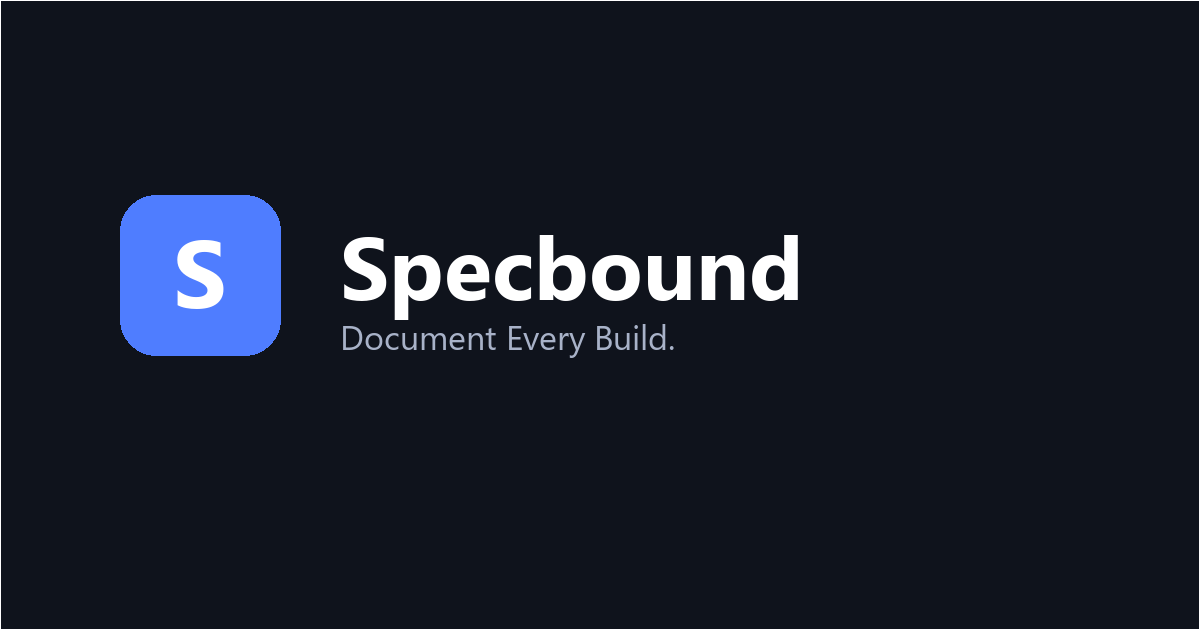
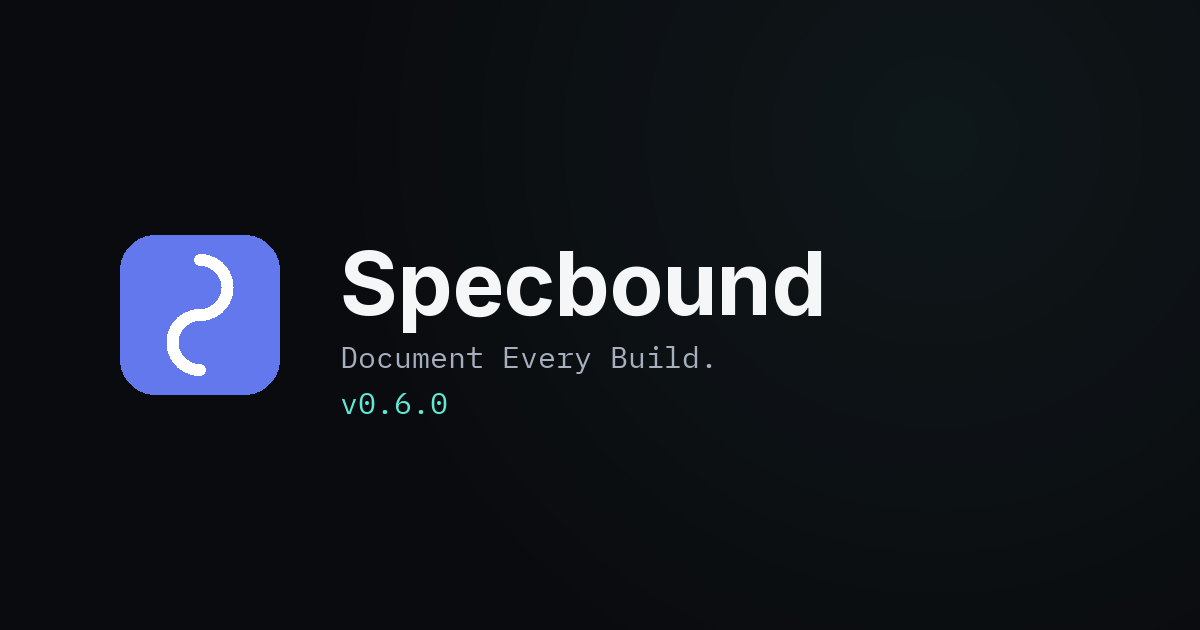
Milestone 10 Step 9: brand assets
Redraws the Assembly Mark and regenerates every asset derived from it,
per docs/MILESTONE_10_BRAND_REFRESH_ARCHITECTURE.md's Brand assets
section.

Assembly Mark (assets/brand/logo/favicon.svg): kept the rounded-square
badge format, replaced the hand-fitted bezier "S" with a precisely
geometric one - two tangent circular arcs (r=5.5, centers exactly 2r
apart so they join with matching slope, no seam) instead of freeform
curve-fitting, matching the doc's "assembled/drafted, not hand-drawn
calligraphic" direction. Fill moves to --color-primary - using the
actually-shipped #6478ee from Step 1, not the architecture doc's
stale #4A5FE8 draft value (same superseded-by-the-real-token situation
documented in Step 1's own commit). Verified legible at both 32px and
16px.

PNG derivatives (favicon-32.png, favicon-192.png, apple-touch-icon.png)
regenerated from the same geometry via a small Pillow script (no
cairosvg/native-cairo available in this environment, so the mark is
rasterized directly from its centerline math rather than the SVG
file - same shape, verified pixel-consistent with the vector source's
control points).

Open Graph image (assets/brand/og/og-image.png, 1200x630, regenerated
via Pillow per the existing Phase 9D method): new mark, new palette
(--color-bg background, --color-text/--color-text-muted for
wordmark/tagline), Inter Bold wordmark, IBM Plex Mono for the
tagline/version line per the doc's "mono typeface for the
[…]

diff --git a/pages/legal/affiliate-disclosure.html b/pages/legal/affiliate-disclosure.html
@@ -10,7 +10,7 @@
     <link rel="icon" type="image/png" sizes="32x32" href="../../assets/brand/logo/favicon-32.png">
     <link rel="apple-touch-icon" href="../../assets/brand/logo/apple-touch-icon.png">
     <link rel="manifest" href="../../manifest.webmanifest">
-    <meta name="theme-color" content="#4f7dff">
+    <meta name="theme-color" content="#6478ee">
     <meta name="viewport" content="width=device-width, initial-scale=1.0">
     <title>Affiliate Disclosure — Coming Soon | Specbound</title>
     <link rel="canonical" href="https://specbound.app/pages/legal/affiliate-disclosure.html">

diff --git a/pages/legal/community-guidelines.html b/pages/legal/community-guidelines.html
@@ -10,7 +10,7 @@
     <link rel="icon" type="image/png" sizes="32x32" href="../../assets/brand/logo/favicon-32.png">
     <link rel="apple-touch-icon" href="../../assets/brand/logo/apple-touch-icon.png">
     <link rel="manifest" href="../../manifest.webmanifest">
-    <meta name="theme-color" content="#4f7dff">
+    <meta name="theme-color" content="#6478ee">
     <meta name="viewport" content="width=device-width, initial-scale=1.0">
     <title>Community Guidelines — Coming Soon | Specbound</title>
     <link rel="canonical" href="https://specbound.app/pages/legal/community-guidelines.html">

diff --git a/pages/legal/privacy.html b/pages/legal/privacy.html
@@ -10,7 +10,7 @@
     <link rel="icon" type="image/png" sizes="32x32" href="../../assets/brand/logo/favicon-32.png">
     <link rel="apple-touch-icon" href="../../assets/brand/logo/apple-touch-icon.png">
     <link rel="manifest" href="../../manifest.webmanifest">
-    <meta name="theme-color" content="#4f7dff">
+    <meta name="theme-color" content="#6478ee">
     <meta name="viewport" content="width=device-width, initial-scale=1.0">
     <title>Privacy Policy — Coming Soon | Specbound</title>
     <link rel="canonical" href="https://specbound.app/pages/legal/privacy.html">

diff --git a/pages/legal/terms.html b/pages/legal/terms.html
@@ -10,7 +10,7 @@
     <link rel="icon" type="image/png" sizes="32x32" href="../../assets/brand/logo/favicon-32.png">
     <link rel="apple-touch-icon" href="../../assets/brand/logo/apple-touch-icon.png">
     <link rel="manifest" href="../../manifest.webmanifest">
-    <meta name="theme-color" content="#4f7dff">
+    <meta name="theme-color" content="#6478ee">
     <meta name="viewport" content="width=device-width, initial-scale=1.0">
     <title>Terms of Service — Coming Soon | Specbound</title>
     <link rel="canonical" href="https://specbound.app/pages/legal/terms.html">

diff --git a/pages/categories/3d-printing.html b/pages/categories/3d-printing.html
@@ -10,7 +10,7 @@
     <link rel="icon" type="image/png" sizes="32x32" href="../../assets/brand/logo/favicon-32.png">
     <link rel="apple-touch-icon" href="../../assets/brand/logo/apple-touch-icon.png">
     <link rel="manifest" href="../../manifest.webmanifest">
-    <meta name="theme-color" content="#4f7dff">
+    <meta name="theme-color" content="#6478ee">
     <meta name="viewport" content="width=device-width, initial-scale=1.0">
     <title>3D Printing | Specbound</title>
     <link rel="canonical" href="https://specbound.app/pages/categories/3d-printing.html">

diff --git a/pages/categories/desk-setups.html b/pages/categories/desk-setups.html
@@ -10,7 +10,7 @@
     <link rel="icon" type="image/png" sizes="32x32" href="../../assets/brand/logo/favicon-32.png">
     <link rel="apple-touch-icon" href="../../assets/brand/logo/apple-touch-icon.png">
     <link rel="manifest" href="../../manifest.webmanifest">
-    <meta name="theme-color" content="#4f7dff">
+    <meta name="theme-color" content="#6478ee">
     <meta name="viewport" content="width=device-width, initial-scale=1.0">
     <title>Desk Setups | Specbound</title>
     <link rel="canonical" href="https://specbound.app/pages/categories/desk-setups.html">

diff --git a/pages/categories/home-labs.html b/pages/categories/home-labs.html
@@ -10,7 +10,7 @@
     <link rel="icon" type="image/png" sizes="32x32" href="../../assets/brand/logo/favicon-32.png">
     <link rel="apple-touch-icon" href="../../assets/brand/logo/apple-touch-icon.png">
     <link rel="manifest" href="../../manifest.webmanifest">
-    <meta name="theme-color" content="#4f7dff">
+    <meta name="theme-color" content="#6478ee">
     <meta name="viewport" content="width=device-width, initial-scale=1.0">
     <title>Home Labs | Specbound</title>
     <link rel="canonical" href="https://specbound.app/pages/categories/home-labs.html">

diff --git a/pages/categories/pc-builds.html b/pages/categories/pc-builds.html
@@ -10,7 +10,7 @@
     <link rel="icon" type="image/png" sizes="32x32" href="../../assets/brand/logo/favicon-32.png">
     <link rel="apple-touch-icon" href="../../assets/brand/logo/apple-touch-icon.png">
     <link rel="manifest" href="../../manifest.webmanifest">
-    <meta name="theme-color" content="#4f7dff">
+    <meta name="theme-color" content="#6478ee">
     <meta name="viewport" content="width=device-width, initial-scale=1.0">
     <title>PC Builds | Specbound</title>
     <link rel="canonical" href="https://specbound.app/pages/categories/pc-builds.html">

diff --git a/pages/categories/robotics.html b/pages/categories/robotics.html
@@ -10,7 +10,7 @@
     <link rel="icon" type="image/png" sizes="32x32" href="../../assets/brand/logo/favicon-32.png">
     <link rel="apple-touch-icon" href="../../assets/brand/logo/apple-touch-icon.png">
     <link rel="manifest" href="../../manifest.webmanifest">
-    <meta name="theme-color" content="#4f7dff">
+    <meta name="theme-color" content="#6478ee">
     <meta name="viewport" content="width=device-width, initial-scale=1.0">
     <title>Robotics | Specbound</title>
     <link rel="canonical" href="https://specbound.app/pages/categories/robotics.html">

diff --git a/pages/categories/arduino.html b/pages/categories/arduino.html
@@ -10,7 +10,7 @@
     <link rel="icon" type="image/png" sizes="32x32" href="../../assets/brand/logo/favicon-32.png">
     <link rel="apple-touch-icon" href="../../assets/brand/logo/apple-touch-icon.png">
     <link rel="manifest" href="../../manifest.webmanifest">
-    <meta name="theme-color" content="#4f7dff">
+    <meta name="theme-color" content="#6478ee">
     <meta name="viewport" content="width=device-width, initial-scale=1.0">
     <title>Arduino | Specbound</title>
     <link rel="canonical" href="https://specbound.app/pages/categories/arduino.html">

diff --git a/pages/notifications.html b/pages/notifications.html
@@ -9,7 +9,7 @@
     <link rel="icon" type="image/png" sizes="32x32" href="../assets/brand/logo/favicon-32.png">
     <link rel="apple-touch-icon" href="../assets/brand/logo/apple-touch-icon.png">
     <link rel="manifest" href="../manifest.webmanifest">
-    <meta name="theme-color" content="#4f7dff">
+    <meta name="theme-color" content="#6478ee">
     <meta name="viewport" content="width=device-width, initial-scale=1.0">
     <title>Notifications | Specbound</title>
     <link rel="canonical" href="https://specbound.app/pages/notifications.html">

diff --git a/pages/settings.html b/pages/settings.html
@@ -10,7 +10,7 @@
     <link rel="icon" type="image/png" sizes="32x32" href="../assets/brand/logo/favicon-32.png">
     <link rel="apple-touch-icon" href="../assets/brand/logo/apple-touch-icon.png">
     <link rel="manifest" href="../manifest.webmanifest">
-    <meta name="theme-color" content="#4f7dff">
+    <meta name="theme-color" content="#6478ee">
     <meta name="viewport" content="width=device-width, initial-scale=1.0">
     <title>Account Settings | Specbound</title>
     <link rel="canonical" href="https://specbound.app/pages/settings.html">
